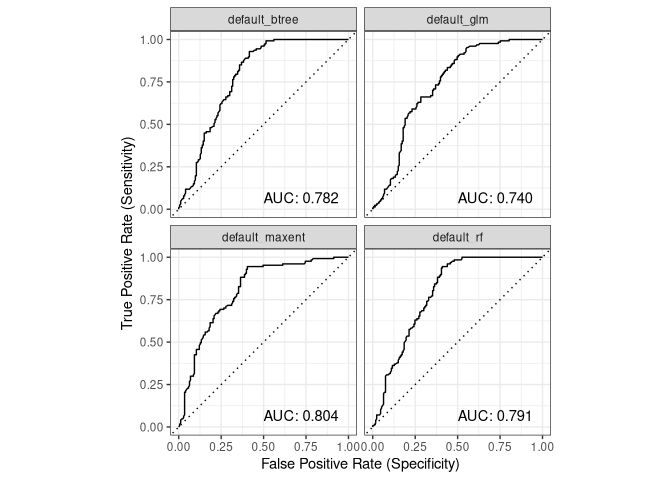
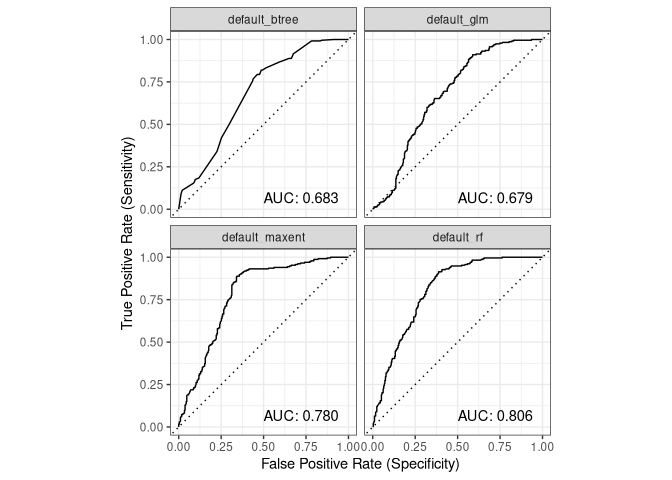
Working on final project

diff --git a/assignments/Wolffish_models.md b/assignments/Wolffish_models.md
@@ -54,13 +54,17 @@ We then select the best configuration of hyperparameters for each model
 so we can better analyze the models success. From this we can pull
 summary statistics:
 
+    ## → A | warning: `early_stop` was reduced to 0.
+
+    ## There were issues with some computations   A: x1There were issues with some computations   A: x1
+
     ## # A tibble: 4 × 5
     ##   wflow_id       accuracy boyce_cont roc_auc tss_max
     ##   <chr>             <dbl>      <dbl>   <dbl>   <dbl>
-    ## 1 default_glm       0.687      0.696   0.740   0.403
-    ## 2 default_rf        0.73       0.761   0.791   0.532
-    ## 3 default_btree     0.72       0.505   0.782   0.507
-    ## 4 default_maxent    0.73       0.768   0.804   0.534
+    ## 1 default_glm       0.641      0.435   0.679   0.318
+    ## 2 default_rf        0.729      0.977   0.806   0.526
+    ## 3 default_btree     0.584      0.740   0.683   0.331
+    ## 4 default_maxent    0.721      0.812   0.780   0.545
 
 Confusion Matrices:
 ![](Wolffish_models_files/figure-gfm/confusion_matrix-1.png)<!-- -->
@@ -84,27 +88,27 @@ hyperparameters, which had these metrics associated with them:
     ## # A tibble: 4 × 4
     ##   .metric    .estimator .estimate .config        
     ##   <chr>      <chr>          <dbl> <chr>          
-    ## 1 accuracy   binary         0.73  pre0_mod0_post0
-    ## 2 boyce_cont binary         0.761 pre0_mod0_post0
-    ## 3 roc_auc    binary         0.791 pre0_mod0_post0
-    ## 4 tss_max    binary         0.532 pre0_mod0_post0
+    ## 1 accuracy   binary         0.729 pre0_mod0_post0
+    ## 2 boyce_cont binary         0.977 pre0_mod0_post0
+    ## 3 roc_auc    binary         0.806 pre0_mod0_post0
+    ## 4 tss_max    binary         0.526 pre0_mod0_post0
 
 And then created these predictions:
 
-    ## # A tibble: 300 × 6
+    ## # A tibble: 527 × 6
     ##    class      .pred_class .pred_presence .pred_background  .row .config        
     ##    <fct>      <fct>                <dbl>            <dbl> <int> <chr>          
-    ##  1 presence   background          0.427             0.573     8 pre0_mod0_post0
-    ##  2 background background          0.0607            0.939    14 pre0_mod0_post0
-    ##  3 background background          0.0606            0.939    26 pre0_mod0_post0
-    ##  4 background background          0.248             0.752    27 pre0_mod0_post0
-    ##  5 background background          0.152             0.848    68 pre0_mod0_post0
-    ##  6 background background          0.373             0.627    89 pre0_mod0_post0
-    ##  7 background background          0.0557            0.944    93 pre0_mod0_post0
-    ##  8 background background          0.174             0.826    95 pre0_mod0_post0
-    ##  9 background background          0.0824            0.918    96 pre0_mod0_post0
-    ## 10 background background          0.105             0.895   107 pre0_mod0_post0
-    ## # ℹ 290 more rows
+    ##  1 presence   presence            0.710             0.290     2 pre0_mod0_post0
+    ##  2 presence   presence            0.663             0.337    10 pre0_mod0_post0
+    ##  3 background background          0.147             0.853    17 pre0_mod0_post0
+    ##  4 background background          0.223             0.777    18 pre0_mod0_post0
+    ##  5 background background          0.0936            0.906    28 pre0_mod0_post0
+    ##  6 background background          0.168             0.832    30 pre0_mod0_post0
+    ##  7 background background          0.0810            0.919    32 pre0_mod0_post0
+    ##  8 background background          0.167             0.833    34 pre0_mod0_post0
+    ##  9 background background          0.110             0.890    40 pre0_mod0_post0
+    ## 10 background background          0.0802            0.920    42 pre0_mod0_post0
+    ## # ℹ 517 more rows
 
 Here is the overall workflow for the random forest model:
 
@@ -123,13 +127,13 @@ Here is the overall workflow for the random forest model:
     ## 
     ## Type:                             Probability estimation 
     ## Number of trees:                  2000 
-    ## Sample size:                      1803 
+    ## Sample size:                      1576 
     ## Number of independent variables:  9 
     ## Mtry:                             1 
     ## Target node size:                 10 
     ## Variable importance mode:         impurity 
     ## Splitrule:                        gini 
-    ## OOB prediction error (Brier s.):  0.223057
+    ## OOB prediction error (Brier s.):  0.2314177
 
 \#Partial Dependence Plot
 
